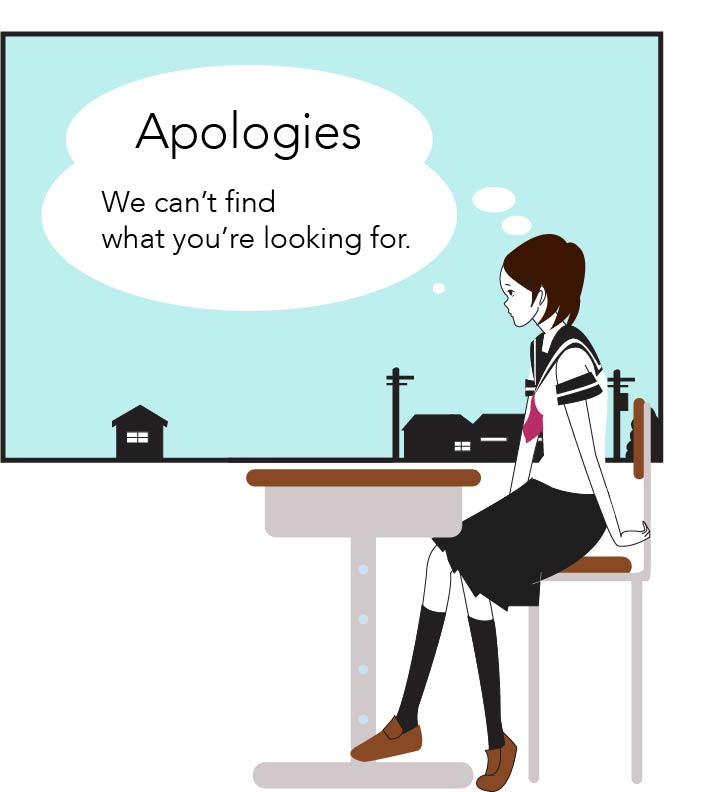
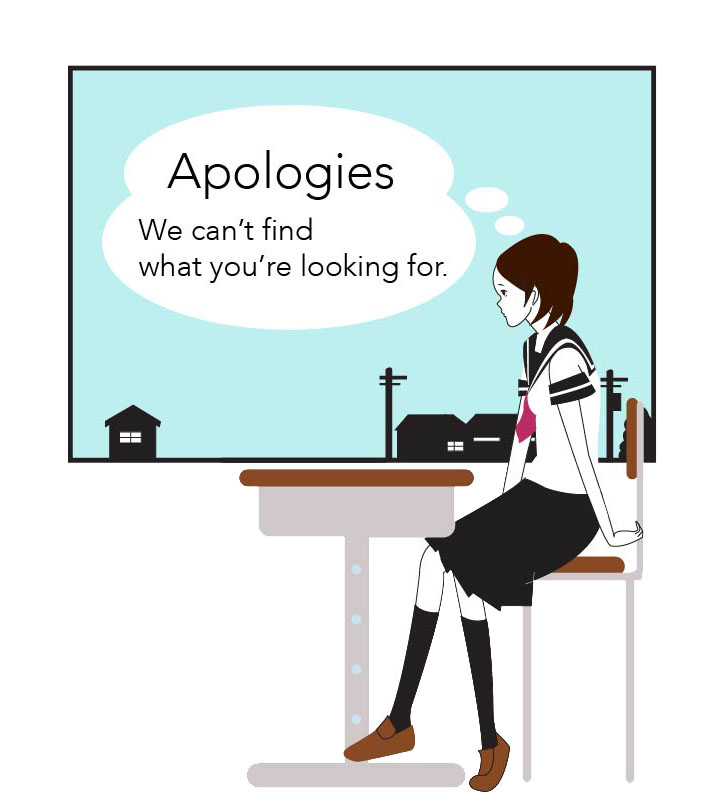
added div 404

diff --git a/404.html b/404.html
@@ -4,7 +4,7 @@ title: 404page for taharamio website
 meta: Contact page · Mio Tahara's Portfolio
 ---
     <body> 
-        	<div class="backgroundtitle">
+        	<div class="404">
             <img src="{{site.baseurl}}/images/404.jpg" title="404 pages" alt="Feature Image">
             </div>
     </body>

diff --git a/_includes/css/general.css b/_includes/css/general.css
@@ -296,3 +296,6 @@ main img{
 	width: 40%;
 }
 }
+.404 {
+	margin-left:40%;
+}
